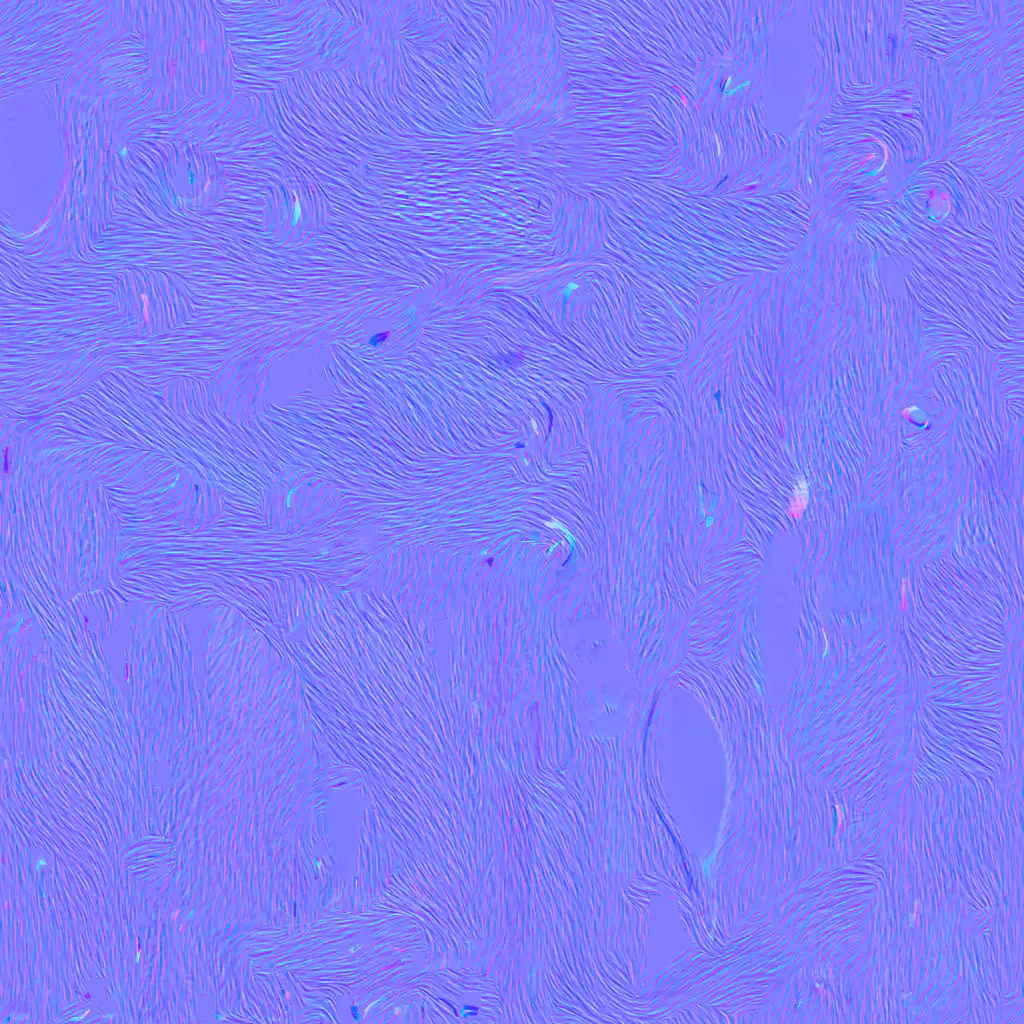
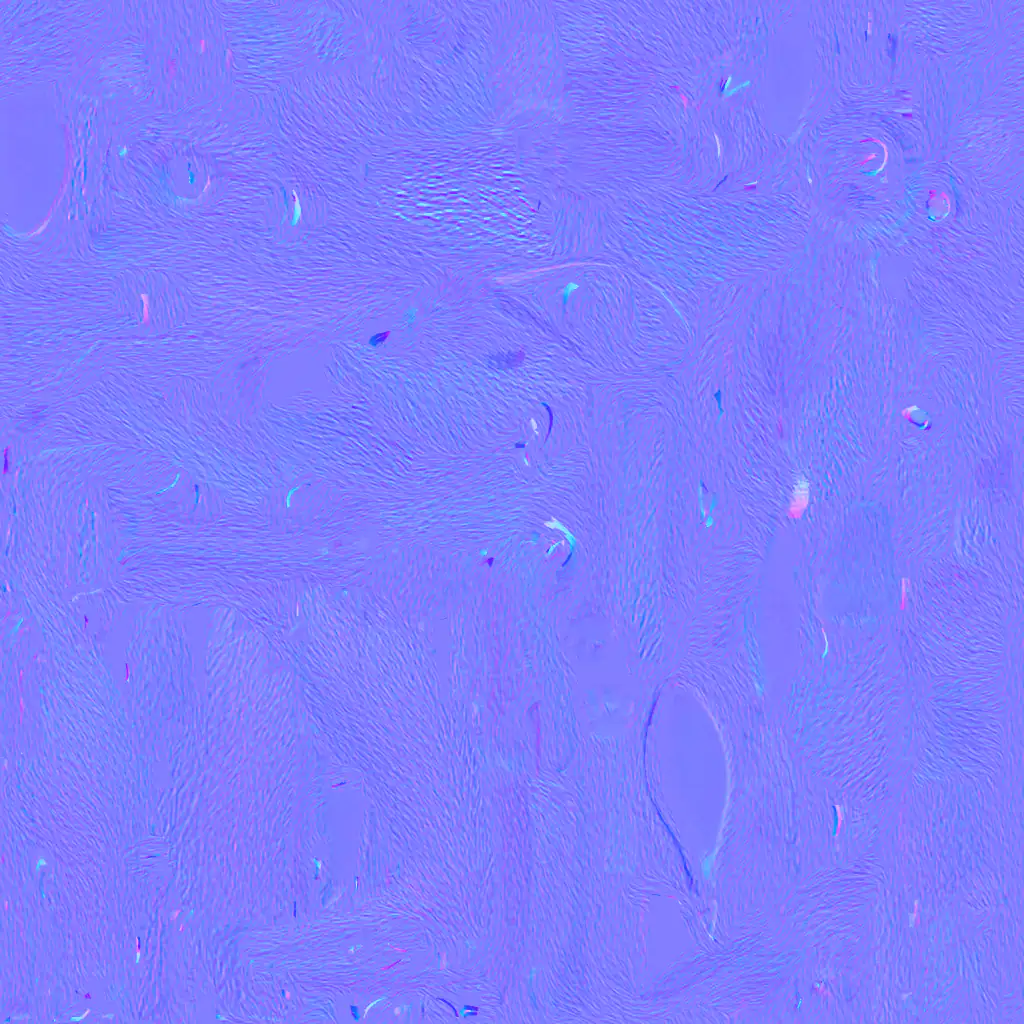
fix(tools): make the added fur strands of the rabbit softer
The rabbit takes the strand values of the fox maps tool: the RMS tilt
0.03, the luma factor 0.08, and the half length 11 texels. On the
white fur, the strands of double strength and length read as carved
grooves. The color map is 193,496 bytes (was 241,912), and the normal
map 109,604 bytes (was 178,922). They load after the first frame.

Design 4.5 now gives the short strands of the fox and the rabbit, with
about half of the tilt and the luma step of the cat and the wolf,
because one height gives both maps and the two cues add.

Changed region(s): [[0.0, 0.0, 1.0, 1.0], [0.8438, 0.5312, 0.875, 0.5625], [0.2188, 0.375, 0.25, 0.4062]]

diff --git a/tools/rabbit-maps.py b/tools/rabbit-maps.py
@@ -43,16 +43,20 @@ STRANDS = {
     'direction_sigma': 24.0,
     #: The sigma in texels at SIZE of the blur of the noise: the width of a strand.
     'width_sigma': 1.4,
-    #: The half length in texels at SIZE of a strand, and the step of its samples.
-    'half_length': 22.0,
+    #: The half length in texels at SIZE of a strand, and the step of its samples. Longer strands
+    #: lay long parallel grooves over the body, which read as carved wood or clay.
+    'half_length': 11.0,
     'step': 1.0,
     #: The sigma in texels at SIZE of the blur that the height of the strands loses (a high pass).
     'high_pass_sigma': 10.0,
-    #: The root mean square of the x, y tilt of the strands in the normal map.
-    'tilt': 0.06,
+    #: The root mean square of the x, y tilt of the strands in the normal map. The color strands
+    #: and the tilts come from one height, so each dark groove of the color map is also a groove of
+    #: the normals. The two cues add, so a smaller tilt than the tilts of the Tripo cat and wolf
+    #: is sufficient.
+    'tilt': 0.03,
     #: The luma factor of the strands in the color map, for each standard deviation of the height:
     #: a strand crest is lighter, and a groove darker.
-    'luma': 0.16,
+    'luma': 0.08,
     #: The largest height of a strand, in standard deviations.
     'clip': 2.5,
 }

diff --git a/assets/models/rabbit/README.md b/assets/models/rabbit/README.md
@@ -220,8 +220,10 @@ source maps, as `tools/mouse-maps.py`:
 
 - The color map is the source scaled to 2048 pixels (Lanczos). The fur takes 0.35 of its Oklab
   chroma (`FUR_CHROMA`): the source paints it cream (C 0.055), and the sheet shows it white (C 0.014
-  to 0.021). Then the fur takes the strands of `tools/fox-maps.py` (`STRANDS`). The pink skin (Oklab
-  C 0.084 to 0.097, h 37 to 48, `SKIN`) and the eyeballs keep their color and take no strands.
+  to 0.021). Then the fur takes the strands of `tools/fox-maps.py` (`STRANDS`: the RMS tilt
+  0.03, the luma factor 0.08, and the half length 11 texels). The strands of double strength and
+  length read as carved grooves on the white fur. The pink skin (Oklab C 0.084 to 0.097, h 37 to
+  48, `SKIN`) and the eyeballs keep their color and take no strands.
   WebP quality 60, method 6 (Pillow 13.0.0).
 - The normal map: each x, y tilt of the normal map of the FBX limited to 0.2 (0.38 % of the
   texels), a box scale to 1024 pixels, the slopes of the strands added, the tilts times 4
@@ -230,8 +232,8 @@ source maps, as `tools/mouse-maps.py`:
 
 | File | Size | SHA-256 |
 |---|---|---|
[4 lines of base64/hex data omitted]
 
 **Fur color in the hall.** The lit fur of the seated rabbit in the hall view with no fill light
 (`close-views play --demo mozart-k525 --at rabbit --azimuth 40 --zoom 1.6 --time 10`, the

diff --git a/docs/design/04-stage-cast-look.md b/docs/design/04-stage-cast-look.md
@@ -1320,8 +1320,11 @@ faces keep the shared shading.
 - **Added strands.** A source that paints its fur smooth, such as the Tripo fox, gets strands
   from its maps tool (`STRANDS` of `tools/fox-maps.py`): seeded noise, smeared along the faint
   strokes of the source, gives a small luma step in the color map and its slope in the normal
-  map. The strand contrast and the tilts then match the cat and the wolf. Reason: with no
-  strands in either map, the fox fur read as smooth plastic beside the other bodies.
+  map. Reason: with no strands in either map, the fox fur read as smooth plastic beside the
+  other bodies. The strands of the fox and the rabbit are short, and their tilt and luma step
+  are about half of those of the Tripo cat and wolf. Reason: one height gives both maps, so
+  each dark groove of the color map is also a groove of the normals. With the strength and the
+  length of the cat and the wolf, the fur read as carved wood or clay.
 
 The fur of the Tripo rabbit is near the shoulder of the tone curve, so the sheen adds little
 light at the outline. Its source paints the fur smooth, so its maps tool adds strands, as for the
